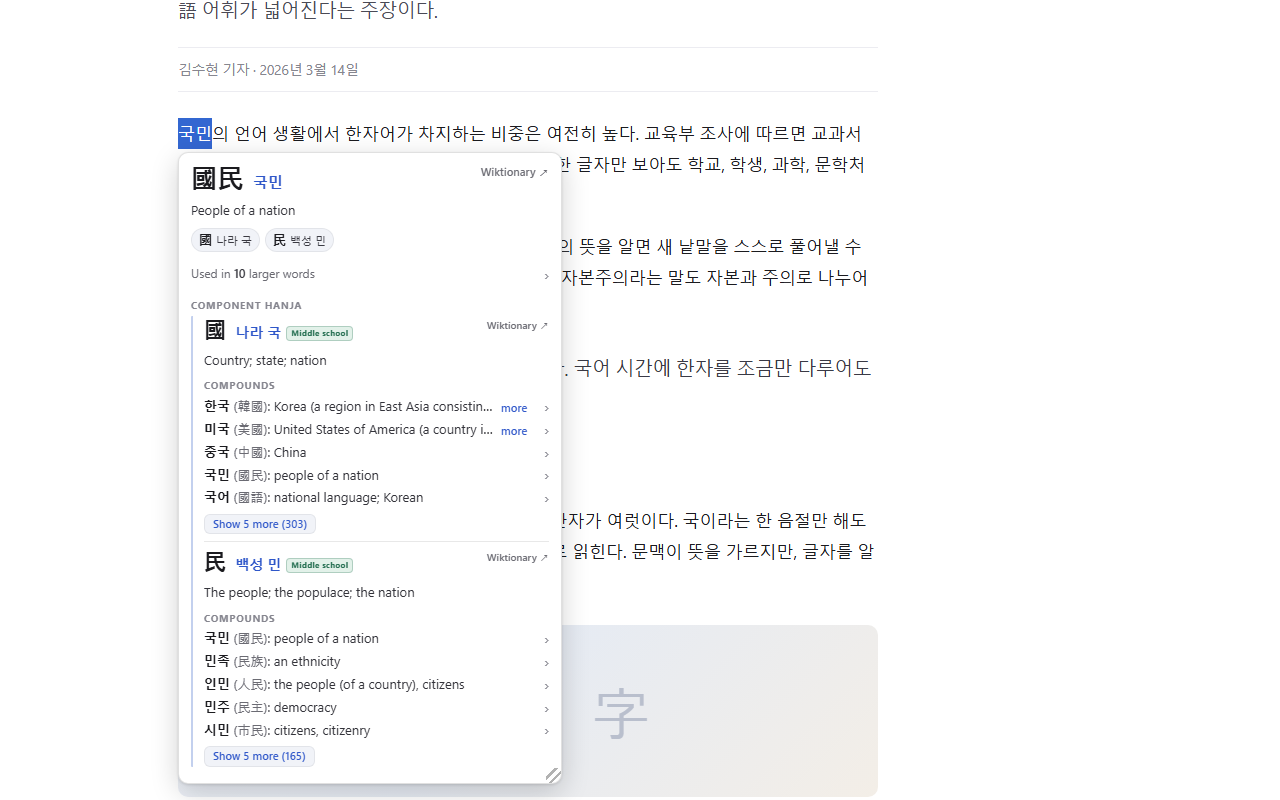
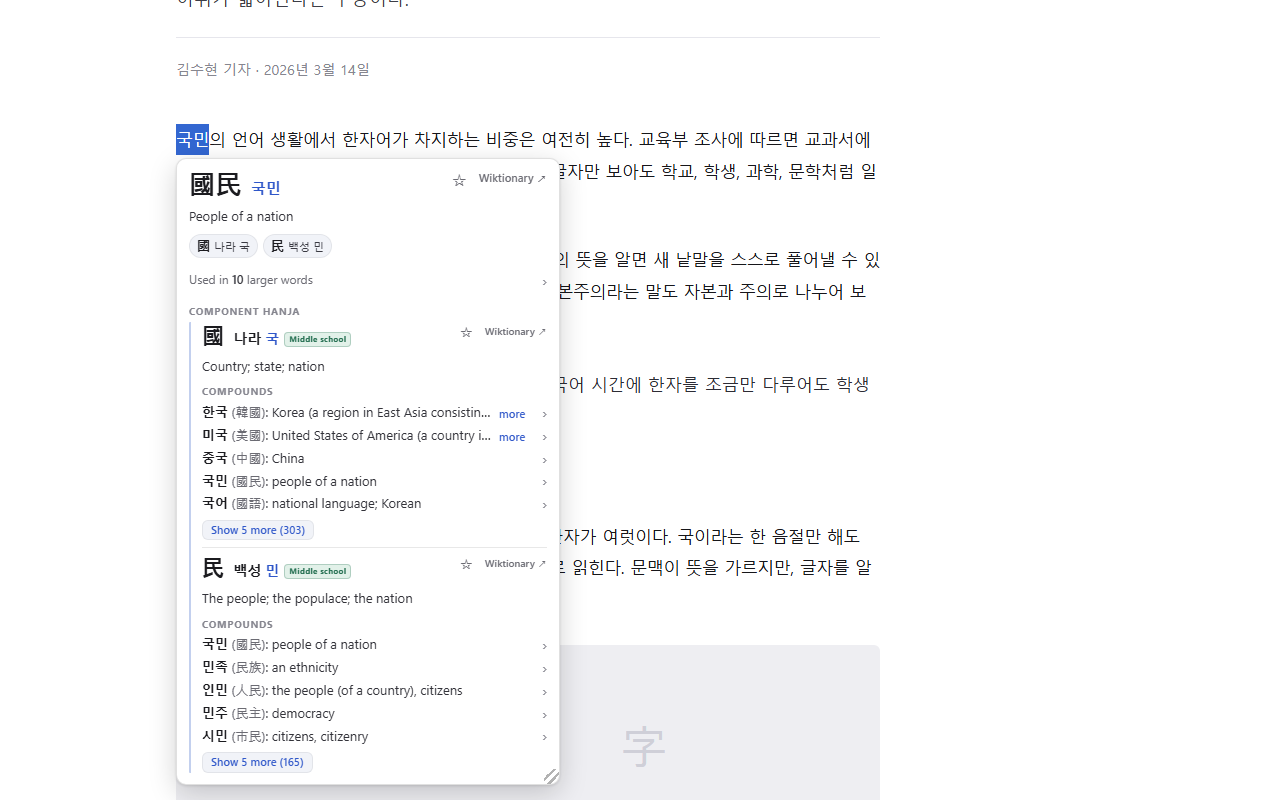
README and screenshots: sidebar, saved words, settings
The five 1280x800 store shots predated the sidebar, the save star and the
eumhun colour split, and shot 5 showed the toolbar popup that no longer
exists. All seven were captured against today's UI from the REAL content.js
and the REAL sidepanel markup, stylesheet and view scripts, driven against the
REAL corpus through extension/lookup.js and extension/saved.js (staging pages
under test-page/_*.local.html, deleted after the run), light theme:

  1 character lookup    學 with its level, senses, compound rows, save star
  2 hangul reverse      국민 to 國民, used-in row, nested COMPONENT HANJA cards
  3 recursive breakdown 資本 through the used-in list to 資本主義, three crumbs
  4 homophone browse    국, all four level zones in one list
  5 sidebar search      NEW slot, replacing 5-search-popup: the panel beside a
                        page, 국민 typed, stars showing what is already saved
  6 saved words         NEW: three folders, one collapsed, the jade seal
  7 settings            NEW: the saving and Anki export groups

The three sidebar shots are the 360x800 panel composited onto a 919x800 page
capture with a 1px divider, the way the panel docks at 1280.

README: the intro and the Search bullet describe the sidebar and the hj
keyword, saved words and export get bullets, clickable readings fold into
browse by sound, and the wiki-link and privacy bullets are corrected for the
panel and for local storage. The body images are now the sidebar and
saved-words shots.
[…]

diff --git a/README.md b/README.md
@@ -2,7 +2,8 @@
 
 A study tool for Korean learners. Highlight hanja, hanzi, or kanji on any page
 to read them in Korean, or highlight a Korean (hangul) word to see its hanja.
-You can also type a query into the toolbar popup or the address bar.
+The toolbar button opens a sidebar for typed search, and typing `hj` in the
+address bar searches from there.
 
 옥편 (玉篇) is the traditional Korean word for a hanja dictionary.
 
@@ -12,44 +13,48 @@ You can also type a query into the toolbar popup or the address bar.
 
 - **Characters into Korean.** Select a hanja to see its eumhun (나라 국 for
   國), its readings, English definitions, and the compounds it appears in.
-  Simplified Chinese and Japanese shinjitai forms (国, 学, 気, 図) resolve to
-  the same entries, so the extension works on Chinese and Japanese pages too.
+  Simplified and shinjitai forms resolve to the same entries, so Chinese and
+  Japanese pages work too.
 - **Korean words into hanja.** Highlight a Sino-Korean word written in hangul
-  (국민) to see the hanja behind it (國民) along with its meaning and its
-  component characters. Grammatical endings are handled: 자본주의는 still
-  finds 자본주의.
+  to see the hanja behind it, its meaning, and its component characters.
+  Grammatical endings are handled: 자본주의는 still finds 자본주의.
 - **Word breakdown.** Long compounds split into component words (자본주의 →
-  資本 + 主義). Character cards list their compounds five at a time, and word
-  cards can list the larger words that contain them. Every entry is clickable,
-  and a breadcrumb trail takes you back to any earlier step.
-- **Browse by sound.** Highlight a single hangul syllable (국) to list every
-  hanja with that reading, with schoolbook characters at the top.
+  資本 + 主義). Every entry is clickable, and a breadcrumb trail takes you back
+  to any earlier step.
+- **Browse by sound.** Highlight a single hangul syllable to list every hanja
+  with that reading. Readings on cards are clickable too: a character's eum
+  opens that list, and a word's hangul shows its other hanja spellings.
 - **Character levels.** Every character is marked Middle school, High school,
   Advanced, or Rare. The first two follow the Korean Ministry of Education
-  curriculum lists. Advanced and Rare are Okpyeon's own classification, and
+  curriculum lists; Advanced and Rare are Okpyeon's own classification, and
   the tooltips state that.
-- **Search.** The toolbar button opens a small search popup, and typing `hj`
-  in the address bar searches from there. Both show the same cards as
-  highlighting does.
-- **Wiktionary links.** Each card links to its Wiktionary entry. Links open
-  in a background tab, so the popup stays open.
-- **Resizable.** Drag the popup's corner to resize it. The size is kept for
-  the rest of the page visit.
+- **Search.** The sidebar shows the same cards as highlighting does, and it
+  stays open as you switch tabs and follow links.
+- **Saved words.** The star on any card saves the entry, and a bubble lets you
+  pick or create a folder for it. The sidebar's Saved view holds the folders,
+  and items can be moved or deleted in batches.
+- **Export.** Saved words export as an Anki text file or as CSV, with folder
+  names carried over as Anki tags. Settings chooses the Anki card fields and
+  the folder new saves go to.
+- **Wiktionary links.** Each card links to its Wiktionary entry. Links open in
+  a background tab, so the card you are reading stays open.
+- **Resizable.** Drag the in-page popup's corner to resize it. The size is
+  kept for the rest of the page visit.
 - **Native words.** Native Korean words show nothing rather than a forced
   match. When a common native word shares its sound with an obscure hanja
-  spelling (사랑 and 舍廊), the entry is labelled a rare homograph instead of
-  being presented as the word's origin.
-- **Private and offline.** The whole dictionary ships inside the extension.
-  It makes no network requests and collects no data. See
-  [privacy-policy.html](privacy-policy.html).
+  spelling (사랑 and 舍廊), the entry is labelled a rare homograph rather than
+  the word's origin.
+- **Private and offline.** The whole dictionary ships inside the extension. It
+  makes no network requests and collects no data, and saved words stay on the
+  device. See [privacy-policy.html](privacy-policy.html).
 
-![Homophone browse](screenshots/4-homophone-browse.png)
+![Sidebar search](screenshots/5-sidebar-search.png)
 
-*Browsing every hanja read 국.*
+*Typed search in the sidebar.*
 
-![Search popup](screenshots/5-search-popup.png)
+![Saved words](screenshots/6-saved-words.png)
 
-*The toolbar search popup.*
+*Saved words, grouped into folders.*
 
 ## Install
 

diff --git a/ROADMAP.md b/ROADMAP.md
@@ -4,7 +4,7 @@ Working list of planned changes. Ordering within a release is not priority
 order. The next store upload ships whatever is merged and verified when the
 current review clears.
 
-## 1.1 — ready, awaiting 1.0 store review
+## 1.1: ready, awaiting 1.0 store review
 
 Everything below is merged on `main` and verified. It is one release: 1.0.1
 was folded in rather than shipped separately, since nothing goes out until
@@ -43,11 +43,12 @@ the 1.0 review clears anyway.
 - **Build hygiene**: deterministic data emit (`sort_keys`), canonical words
   keys, data-driven segmentation caps, geometry-derived expander state.
 - Listing updates at upload time: privacy policy URL on GitHub Pages,
-  homepage field pointing at this repo, a style pass over
-  store-listing.md's newer sections (same rules as the README rewrite:
-  no rule-of-three phrasing, no flavor lines), and a screenshots, README
-  and store-listing refresh covering the sidebar and saved words (the
-  current screenshot 5 and search copy show the removed toolbar popup).
+  homepage field pointing at this repo, and a rewrite of store-listing.md
+  covering the sidebar, saved words, export and settings, with a style pass
+  over its newer sections (same rules as the README: no rule-of-three
+  phrasing, no flavor lines). Its search copy still describes the removed
+  toolbar popup. The screenshots and the README are done: seven 1280x800
+  shots, the last three of them the sidebar.
 
 ### Saved words and settings (merged and verified)
 
@@ -76,7 +77,7 @@ release:
 - **Reading-row chip weight.** Level chips on reading-list rows are correct
   but visually heavy in the worst case: an all-Rare homophone list renders a
   column of identical grey pills that carries no information and drowns the
-  eumhun. Two mitigations identified — suppress the Rare chip on rows only
+  eumhun. Two mitigations identified: suppress the Rare chip on rows only
   (keep it on card heads), or de-fill row chips generally (text-weight rather
   than pill). Not decided; both are small and can land before or after
   upload.
@@ -89,13 +90,13 @@ release:
   model. The question later resolved itself when the toolbar popup was
   replaced by the sidebar, which persists for real.
 
-## 1.2 — romanized search
+## 1.2: romanized search
 
 The sidebar, saved words and settings were planned here and moved up (see
 above). What remains:
 
 - **Romanized SEARCH INPUT** (not display): typing gukmin/gungmin finds 국민 →
-  國民 for IME-less learners — the natural completion of typed search for the
+  國民 for IME-less learners, the natural completion of typed search for the
   target audience. Approach: dictionary-constrained matching (candidate
   hangul readings of the typed romanization, kept only where they hit
   byHangul / the reading index); index both naive and sound-changed Revised
@@ -118,15 +119,15 @@ one schema entry plus its feature code:
 - One example sentence per word (already present in the cached kaikki extracts)
 - Selection support inside `<textarea>`/`<input>`; `all_frames` for iframes
 - 대법원 인명용 badge ("usable in given names", ~8,000 chars from the Supreme
-  Court rules annex — Korean law excludes statutes/rules from copyright, so
+  Court rules annex; Korean law excludes statutes/rules from copyright, so
   likely clean): deliberately deferred; an optional badge long-term, not part
   of the level taxonomy that shipped
 - General dictionary mode: include native Korean words, not just Sino-Korean
   (the full Wiktionary Korean extract is already downloaded and parsed at
-  build time — this is a filter change plus roughly double words.json, and a
+  build time, so this is a filter change plus roughly double words.json, and a
   product-identity decision more than a technical one)
 - Japanese and Chinese pronunciations on character cards, as an option
-  (Unihan kMandarin / kJapaneseOn / kJapaneseKun — data is nearly free, but
+  (Unihan kMandarin / kJapaneseOn / kJapaneseKun: data is nearly free, but
   whether cross-language readings belong in a Korean-first tool is uncertain;
   would ride the options page whenever it exists)
 - List views auto-growing taller than card views
@@ -135,7 +136,7 @@ one schema entry plus its feature code:
 ## Non-goals for now
 
 - The 어문회 검정시험 급수 ladder. CLOSED as won't-do: no openly licensed
-  source exists (verified — Korean Wiktionary carries no level data; all
+  source exists (verified: Korean Wiktionary carries no level data; all
   compilations trace to the association unlicensed), and Korean
   database-producer rights (저작권법 제91조–98조, with case law) make
   unlicensed extraction indefensible for a distributed product. The MOE
